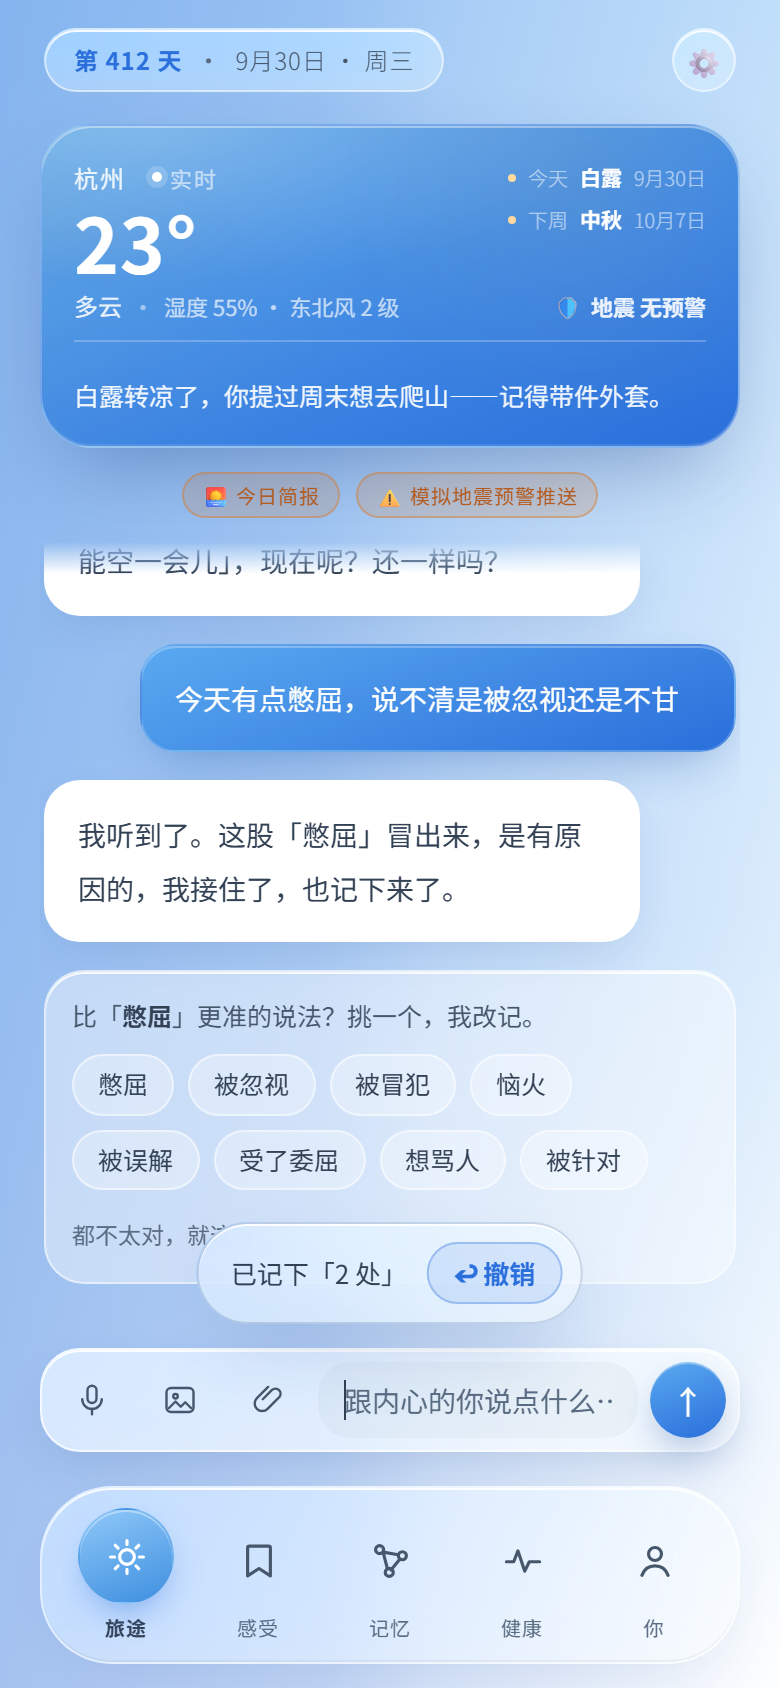
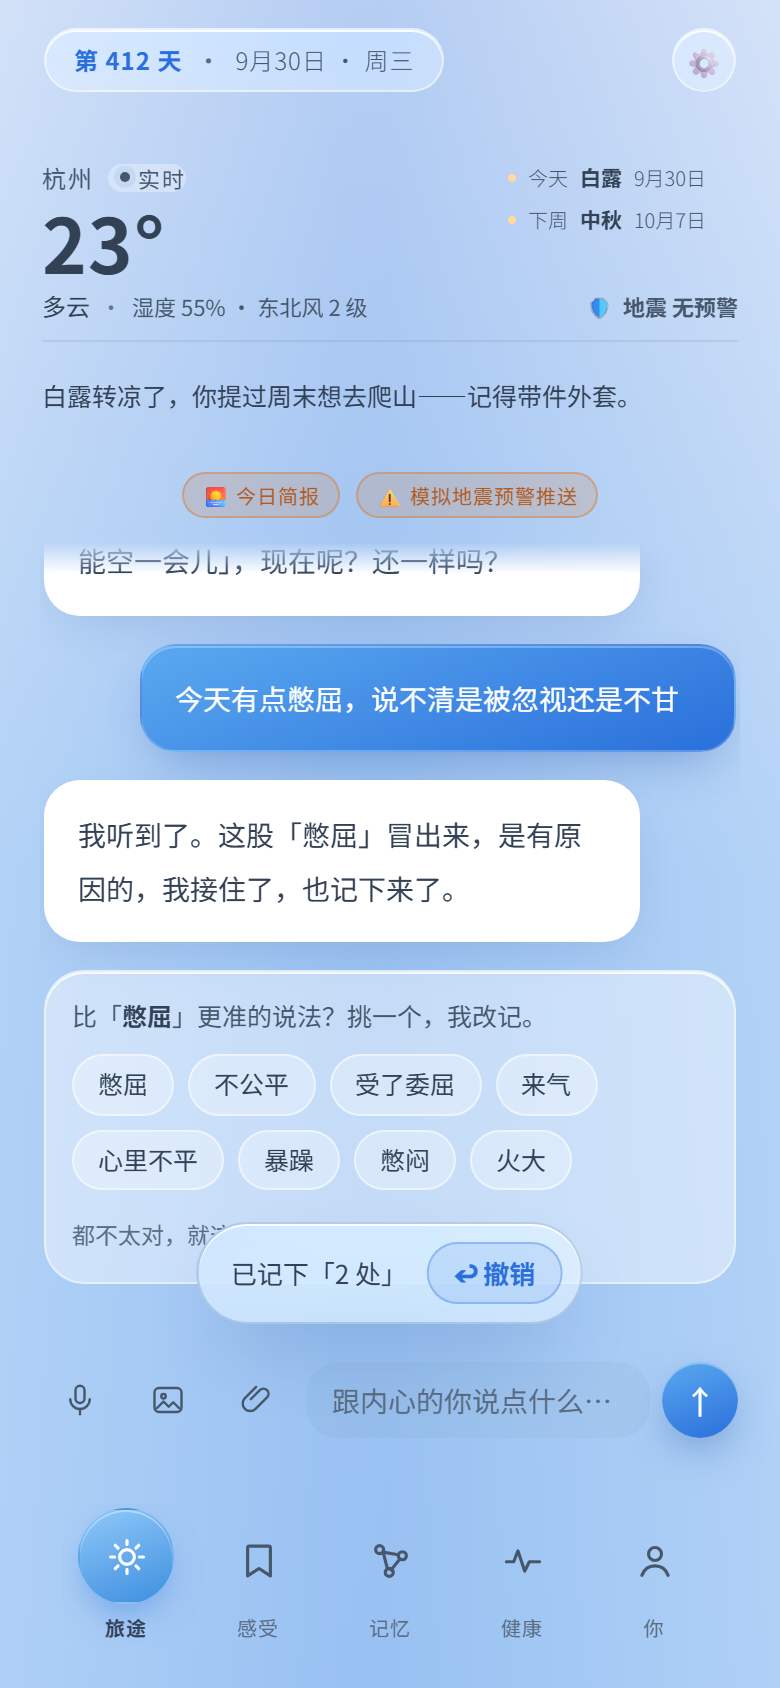
style: 天气卡 / 输入框 / 底部导航去底色，只留内容与胶囊
- 三处容器背景、边框、阴影、毛玻璃全部去掉
- 天气卡文字改用主题变量，清掉伪元素与粒子残留
- 九张截图同步重拍

diff --git a/prototype/index.html b/prototype/index.html
@@ -2083,6 +2083,77 @@
   }
   .annual-box textarea:focus{border-color:var(--blue-line);box-shadow:0 0 0 3px var(--blue-soft);}
   .annual-acts{display:flex;gap:8px;justify-content:flex-end;margin-top:6px;}
+
+  /* ==========================================================================
+     v95 · 去容器底：天气卡 / 输入框 / 底部导航只留内容与胶囊
+     用户诉求：「只显示这些胶囊按钮，它们层级的背景设置为透明的，
+     这样子看起来可以让用户看见更多的信息」
+     ========================================================================== */
+  .weather{
+    background:transparent !important;
+    border-color:transparent !important;
+    box-shadow:none !important;
+    -webkit-backdrop-filter:none !important;
+    backdrop-filter:none !important;
+    color:var(--text);
+    padding-left:0;
+    padding-right:0;
+  }
+  .weather .weather-city{color:var(--text-dim);}
+  .weather .weather-temp{color:var(--text);}
+  .weather .weather-desc{color:var(--text);}
+  .weather .weather-hum{color:var(--text-dim);}
+  .weather .weather-care{color:var(--text-dim);}
+  .weather .care-txt{color:var(--text-dim);}
+  .weather .wq-main{color:var(--text-dim) !important;}
+  .weather .wq-src{color:var(--text-faint) !important;}
+  .weather .weather-live{
+    background:var(--glass-bg-2);
+    border-color:var(--glass-border);
+    color:var(--text-dim);
+  }
+  .weather .weather-live::before{background:var(--text-dim);box-shadow:0 0 0 3px rgba(120,160,220,.16);}
+  .weather .fest-row .when,
+  .weather .fest-row .name,
+  .weather .fest-row .date{color:var(--text-dim) !important;}
+  .weather .fest-row .name{color:var(--text) !important;}
+  /* 天气卡内的分隔线（若用白线）改为主题线 */
+  .weather hr,
+  .weather .weather-divider{border-color:var(--line) !important;background:var(--line) !important;}
+
+  /* 天气卡还有两层伪元素/粒子层，透明后会把残留的渐变带出来 */
+  .weather::before{background:none !important;}
+  .weather{background-image:none !important;}
+  .weather-fx{opacity:0 !important;}
+  .weather-care{border-top-color:var(--line) !important;}
+  .weather .care-txt{color:var(--text) !important;}
+
+  /* 输入框：去玻璃底，只留工具与文字 */
+  .chat-input{
+    background:transparent !important;
+    border-color:transparent !important;
+    box-shadow:none !important;
+    -webkit-backdrop-filter:none !important;
+    backdrop-filter:none !important;
+    padding-left:0;
+    padding-right:0;
+  }
+  :root[data-theme="light"] .chat-input{
+    background:transparent !important;
+    border-color:transparent !important;
+    box-shadow:none !important;
+    -webkit-backdrop-filter:none !important;
+    backdrop-filter:none !important;
+  }
+
+  /* 底部导航：去玻璃底 */
+  .nav{
+    background:transparent !important;
+    border-color:transparent !important;
+    box-shadow:none !important;
+    -webkit-backdrop-filter:none !important;
+    backdrop-filter:none !important;
+  }
   .grat-last{margin-top:7px;font-size:11.5px;color:var(--text-dim);}
   .grat-last b{color:var(--sage);font-weight:600;}
   /* ==========================================================================
